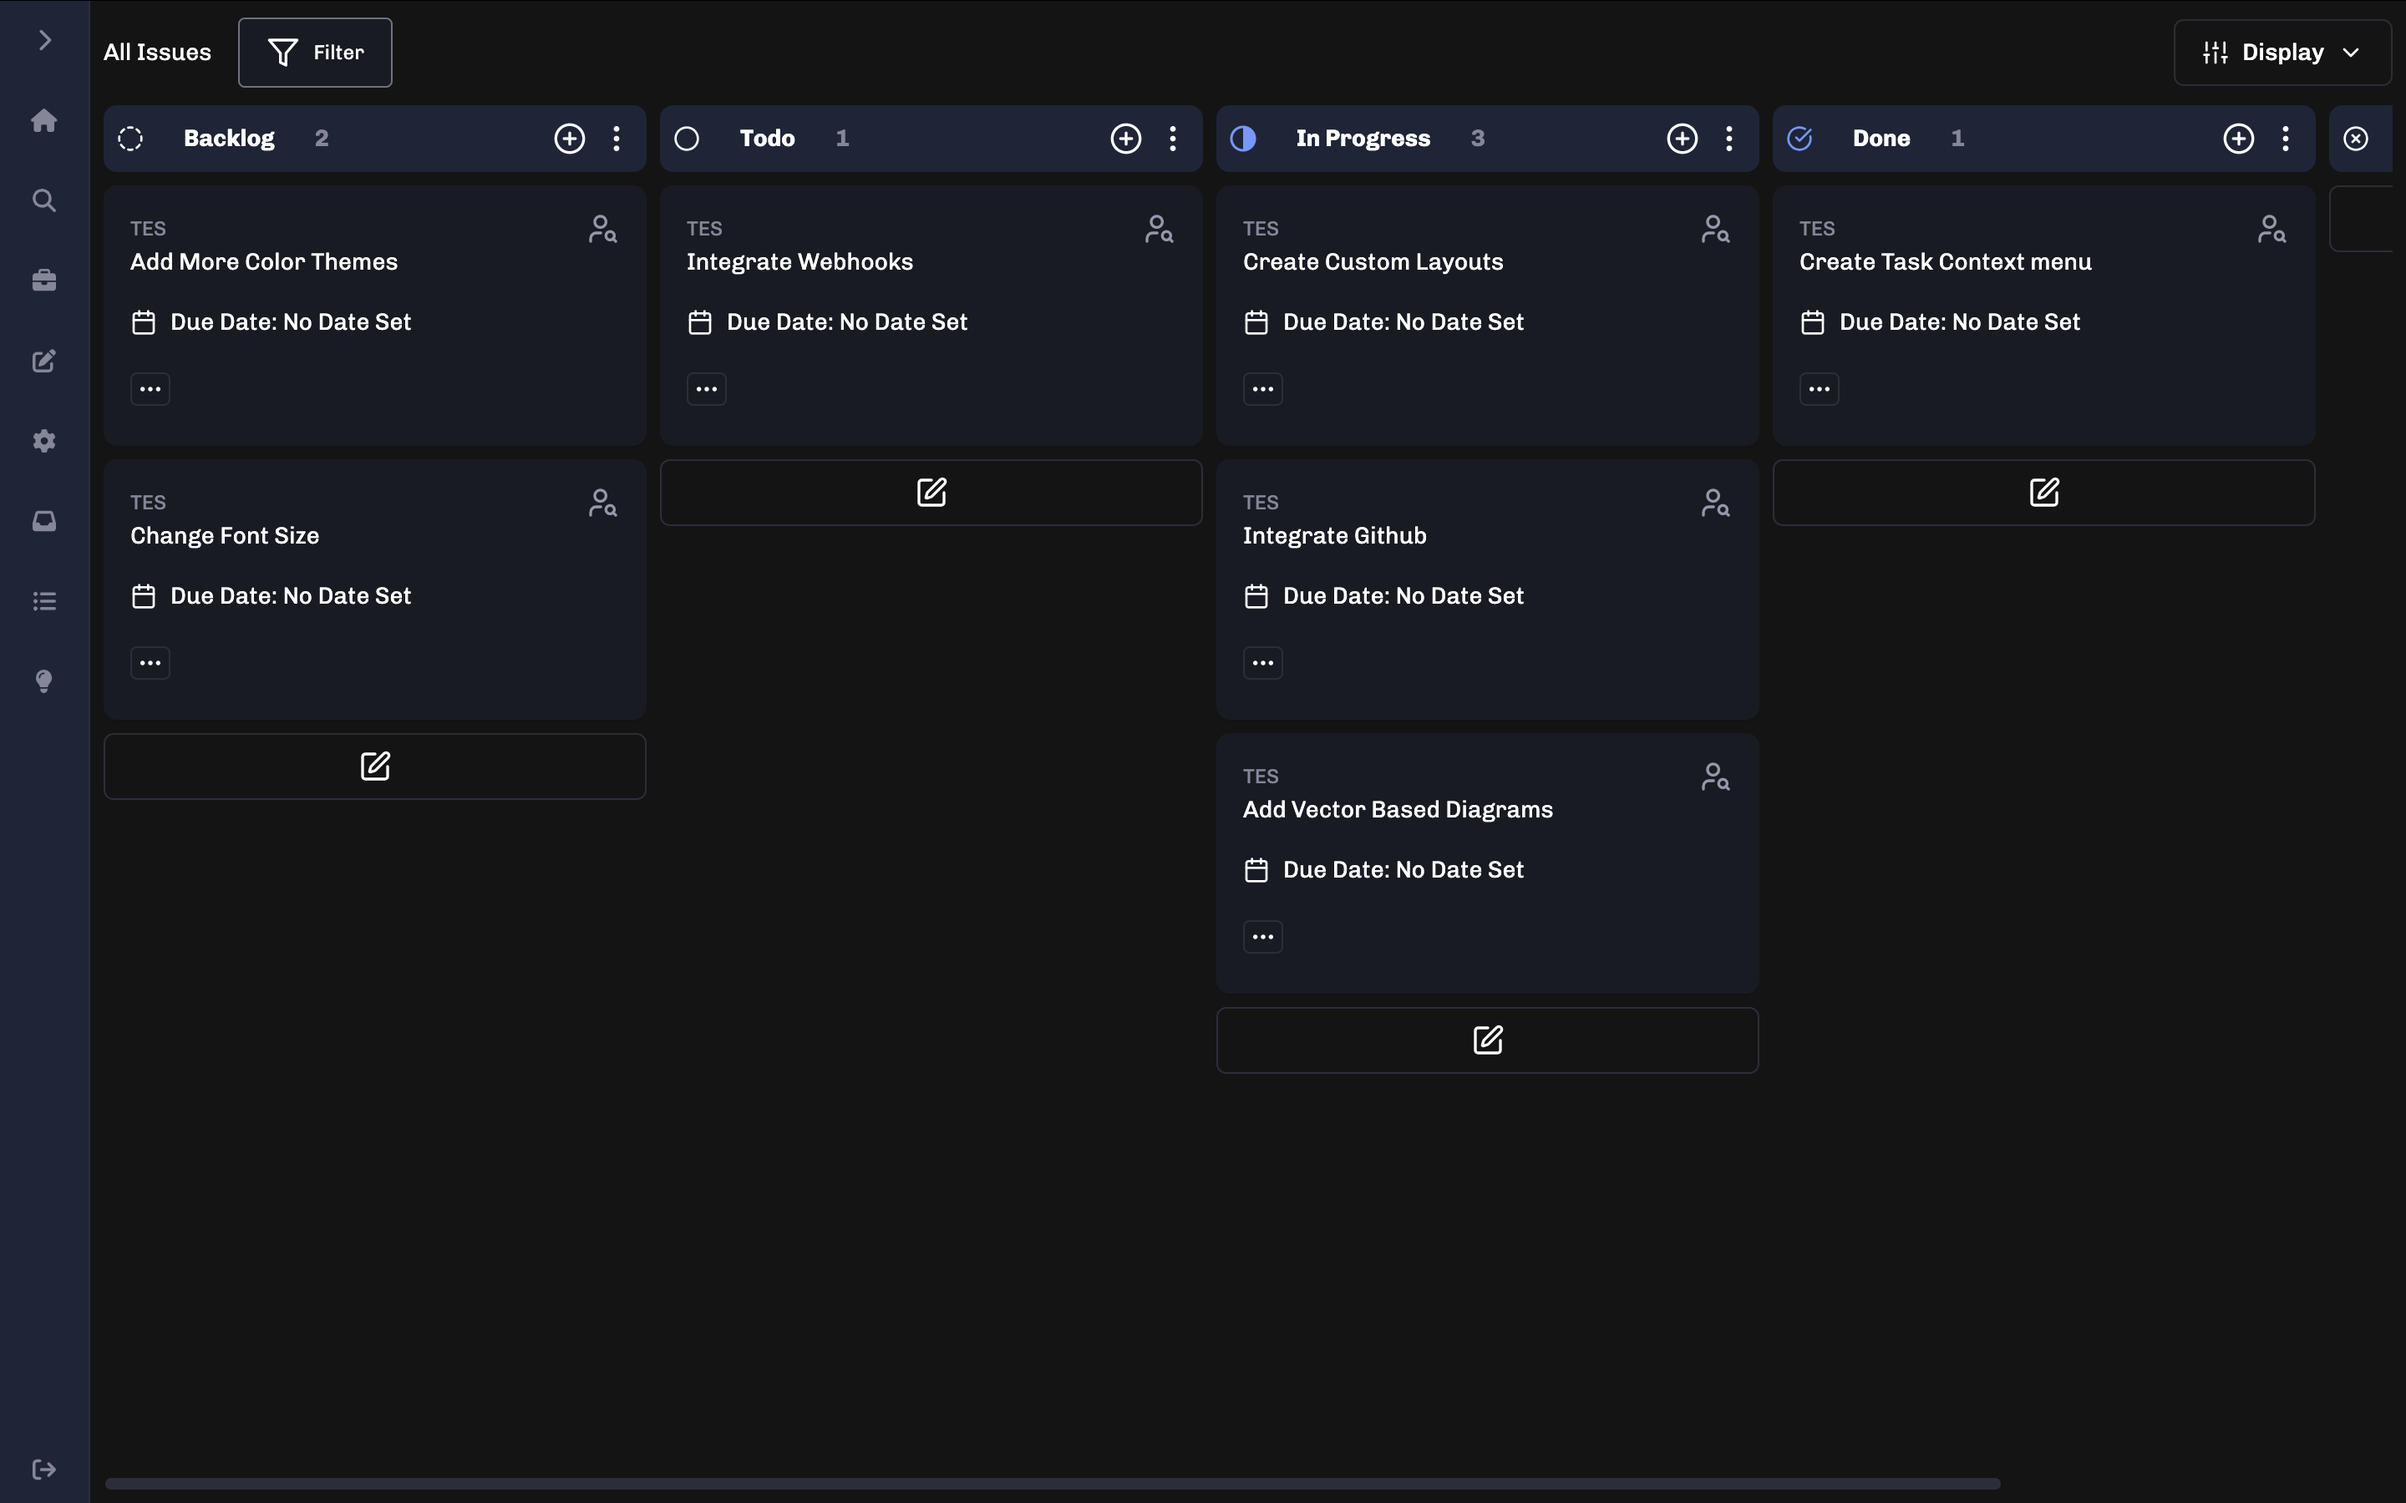
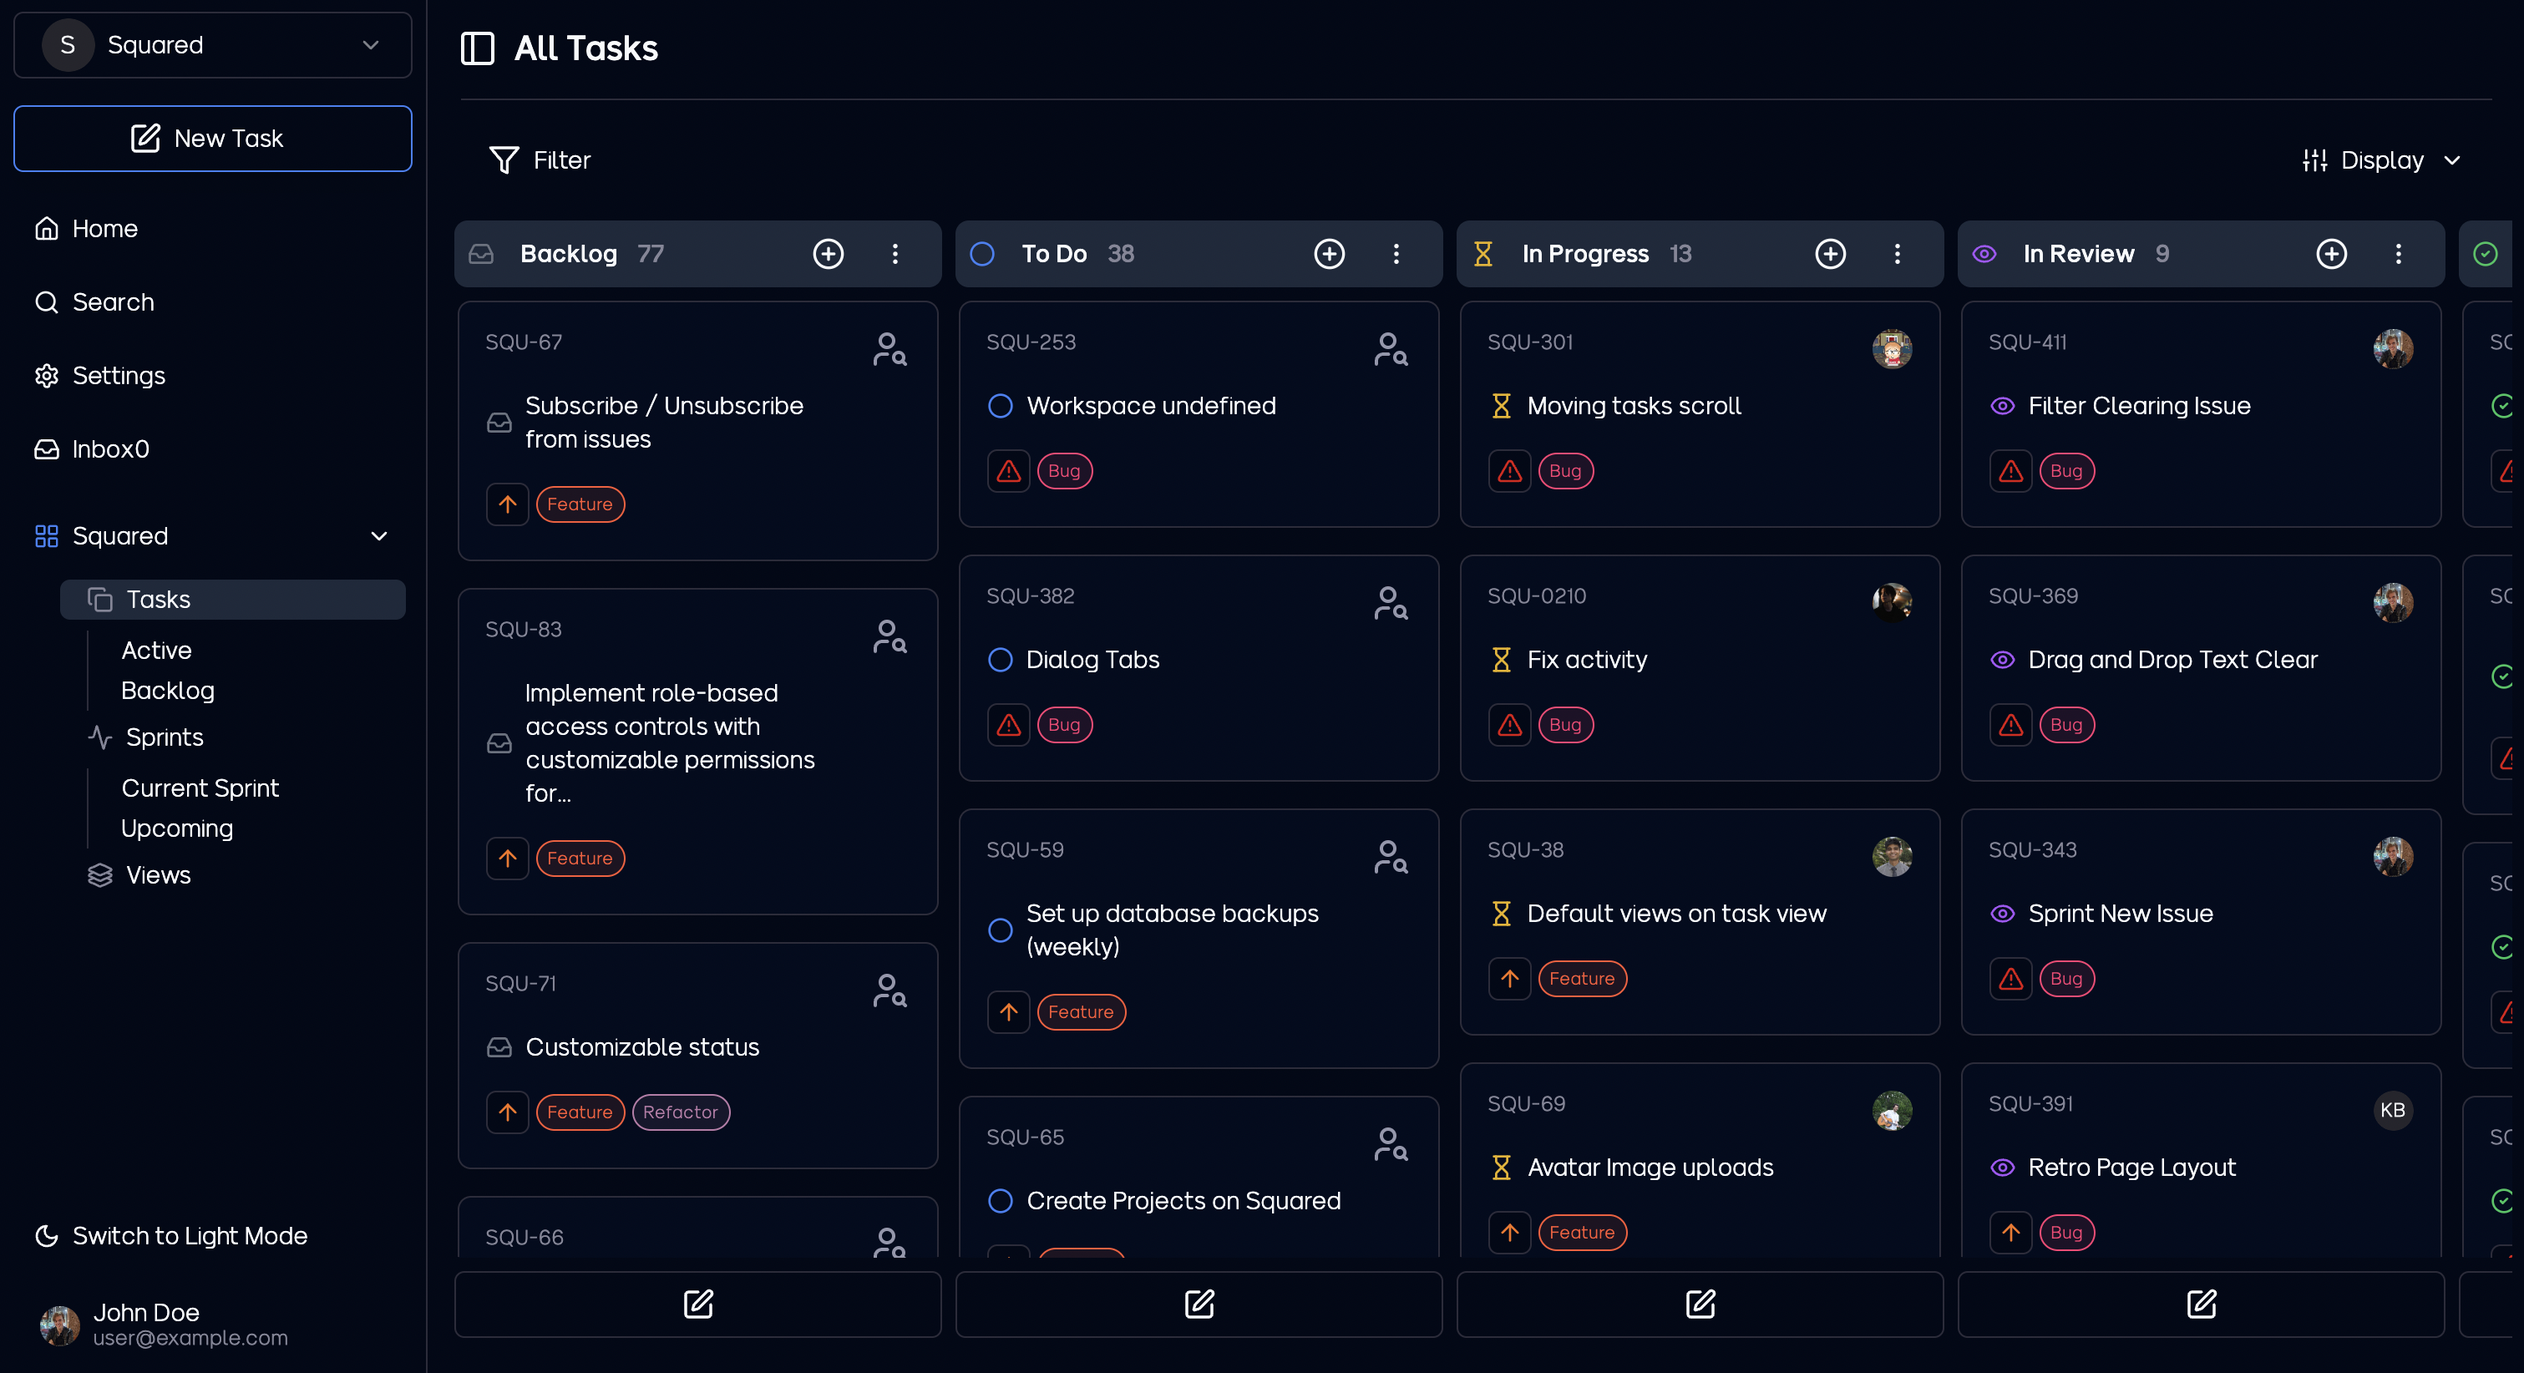
feat: updated dashbaord image

diff --git a/apps/www/components/hero.tsx b/apps/www/components/hero.tsx
@@ -109,24 +109,17 @@ export const Hero = () => {
 			<div className="p-4 border border-neutral-200 bg-neutral-100 dark:bg-neutral-800 dark:border-neutral-700 rounded-[32px] mt-20 relative">
 				<div className="absolute inset-x-0 bottom-0 h-40 w-full bg-gradient-to-b from-transparent via-white to-white dark:via-background dark:to-background scale-[1.1] pointer-events-none" />
 				<div className="p-2 bg-white dark:bg-black dark:border-neutral-700 border border-neutral-200 rounded-[24px]">
-					{/* todo change image based on dark or light theme */}
-					{resolvedTheme === "light" ? (
-						<Image
-							src="/squared-grid-light.png"
-							alt="header"
-							width={1920}
-							height={1080}
-							className="rounded-[20px]"
-						/>
-					) : (
-						<Image
-							src="/squared-grid-dark.png"
-							alt="header"
-							width={1920}
-							height={1080}
-							className="rounded-[20px]"
-						/>
-					)}
+					<Image
+						src={
+							resolvedTheme === "dark"
+								? "/squared-grid-dark.png"
+								: "/squared-grid-light.png"
+						}
+						alt="header"
+						width={3022}
+						height={1644}
+						className="rounded-[20px]"
+					/>
 				</div>
 			</div>
 		</div>
